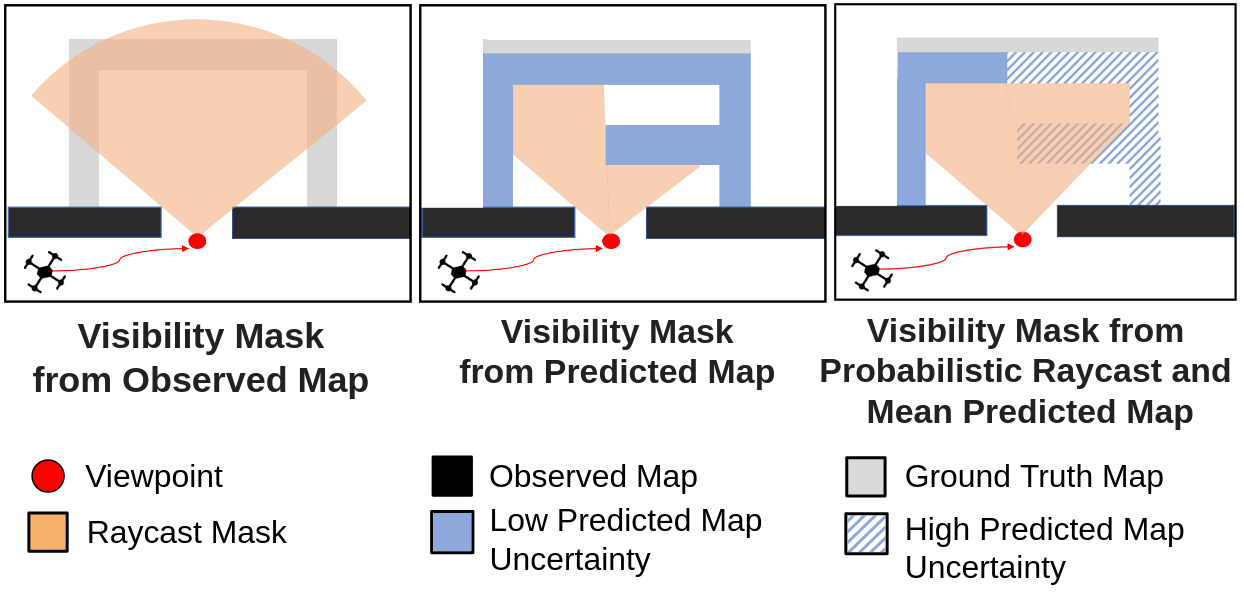
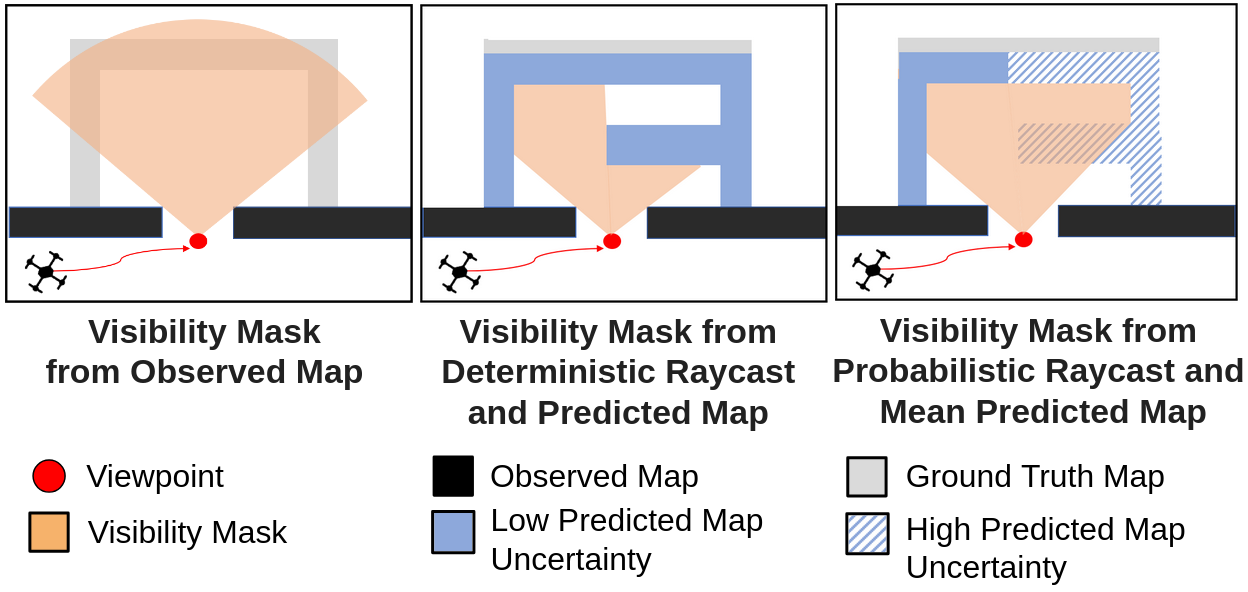
replaced visibility mask png image

diff --git a/index.html b/index.html
@@ -299,13 +299,16 @@
               </div>
               <div class="content-section" id="content-1-2">
                 <div class="content has-text-justified">
-                  <p>Conventional raycasting using only the observed occupancy grid map tends to overestimate the potential sensor coverage at a given viewpoint (left). Deterministic raycasting with a predicted map can address this issue but often terminates rays prematurely if the predictions are inaccurate, leading to an underestimation of the information gain at the viewpoint (middle). To overcome these limitations, we employ probabilistic raycasting on the mean predicted map. Each ray begins with an initial accumulated occupancy value of 0. As the ray traverses through the pixels of the mean predicted map, it incrementally adds the occupancy value of each pixel. Once the accumulated value reaches a predefined threshold, the raycasting process stops (right). </p>
+                  <p><strong>Left: </strong>Conventional raycasting using only the observed occupancy grid map tends to overestimate the potential sensor coverage at a given viewpoint. <br>
+                    <strong>Middle: </strong>Deterministic raycasting with a predicted map can address this issue but often terminates rays prematurely if the predictions are inaccurate, leading to an underestimation of the information gain at the viewpoint. <br>
+                    <strong>Right: </strong>To overcome these limitations, we employ probabilistic raycasting on the mean predicted map. Each ray begins with an initial accumulated occupancy value of 0. As the ray traverses through the pixels of the mean predicted map, it incrementally adds the occupancy value of each pixel. Once the accumulated value reaches a predefined threshold, the raycasting process stops. </p>
                   <img src="assets/raycasts.png" alt="Raycasts" />
                 </div>
               </div>
               <div class="content-section" id="content-1-3">
                 <div class="content has-text-justified">
-                  <p> Given ray end points, we perform a flood-fill algorithm to generate a sensor coverage mask, and then mask out already-observed areas from the sensor coverage mask to generate visibility mask. Using probabilistic raycasting on the mean predicted maps, we generate visibility masks which probabilistically represents the unknown area estimated to be visible at each viewpoint. </p>
+                  <p> Given ray end points, we perform a flood-fill algorithm to generate a sensor coverage mask, and then mask out already-observed areas from the sensor coverage mask to generate a visibility mask. <br>
+                    Using probabilistic raycasting on the mean predicted maps, we generate a visibility mask that probabilistically represents the unknown area estimated to be visible at each viewpoint. </p>
                   <img src="assets/visibility-masks.png" alt="Visibility Masks" />
                 </div>
               </div>
